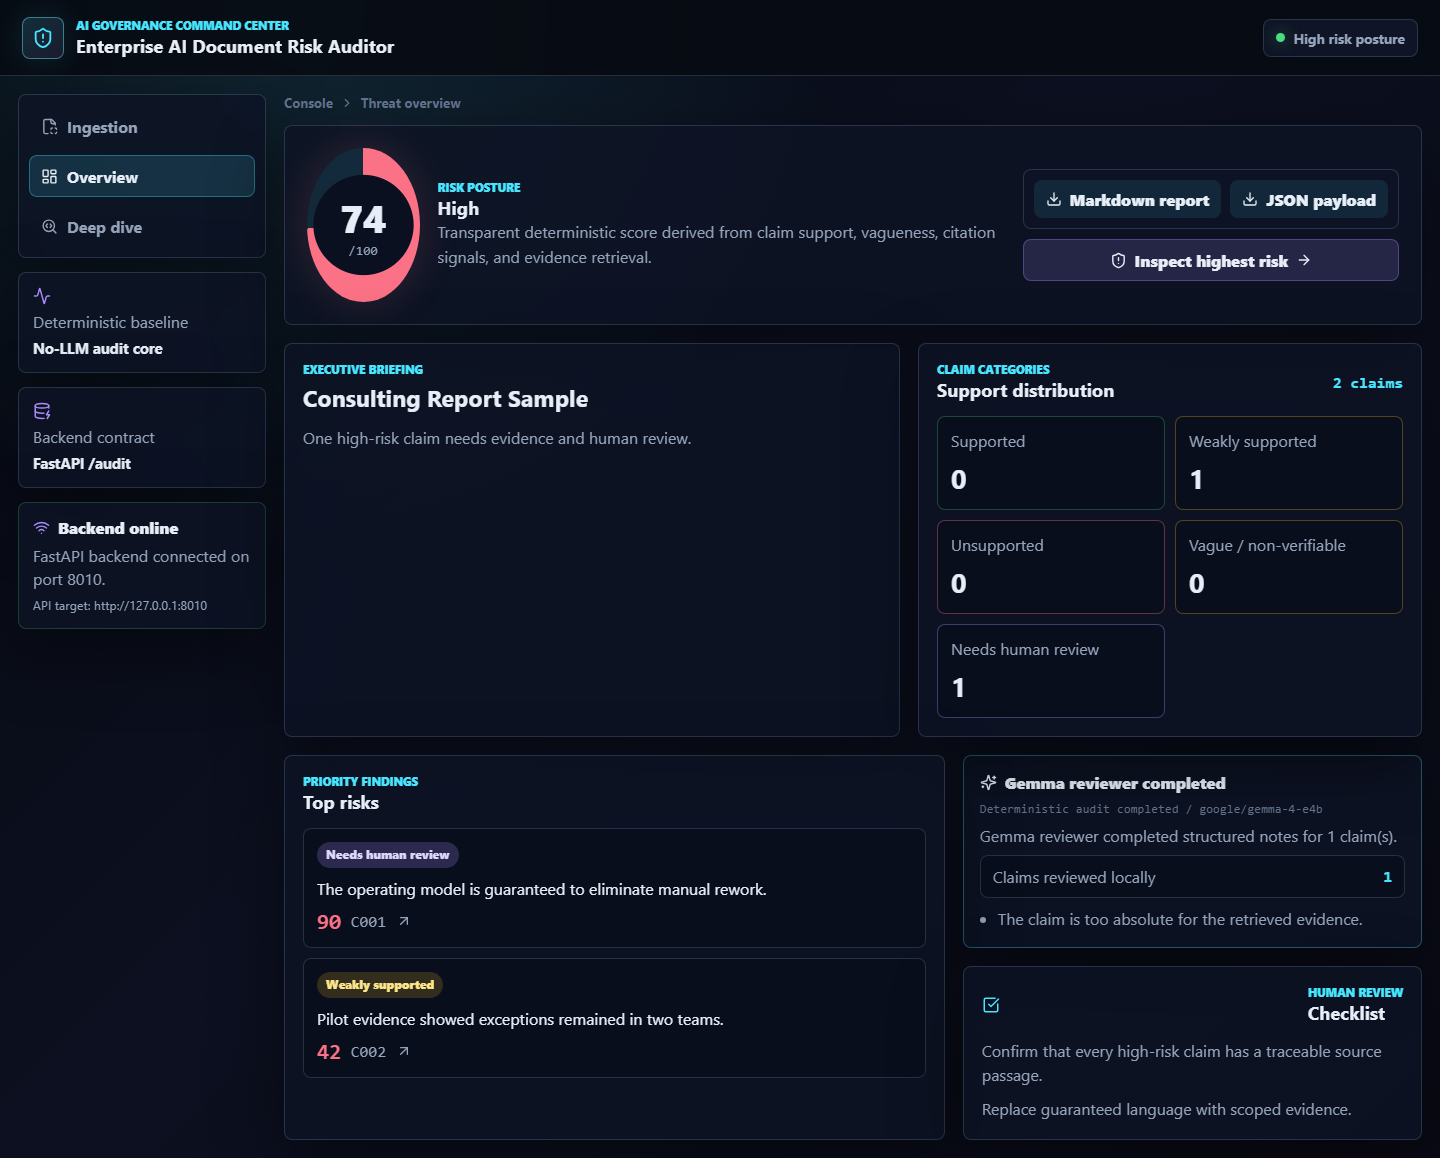
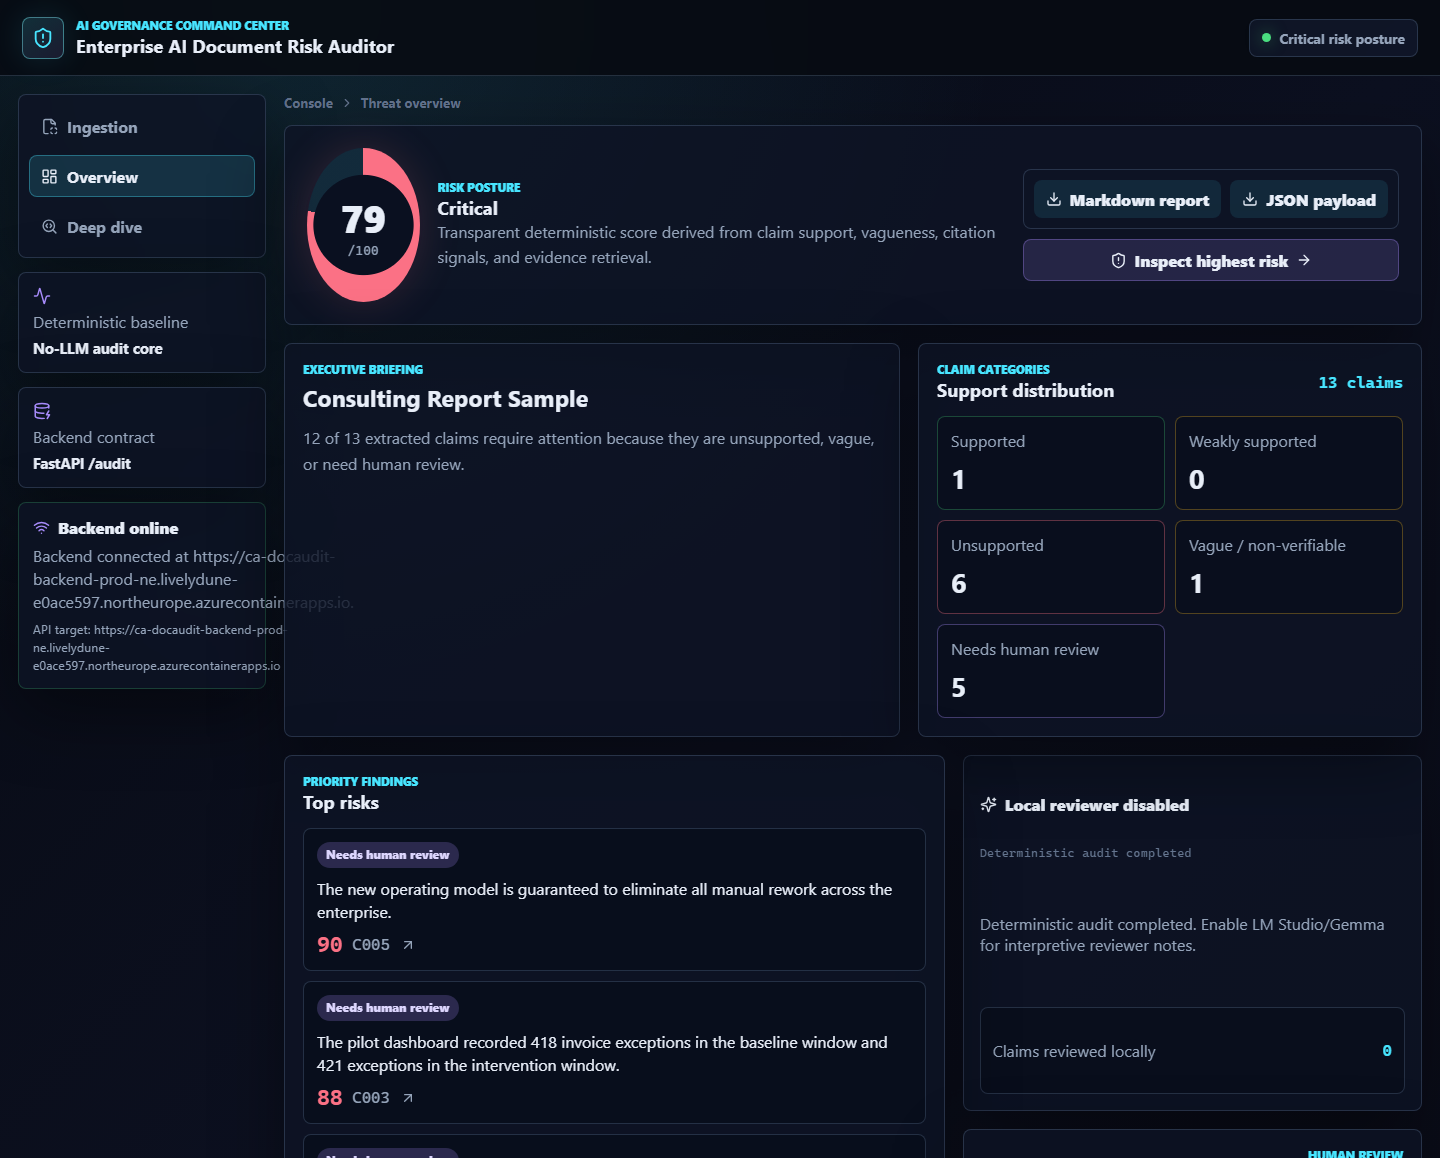
docs: capture the README screenshot from the live deployment
The previous image was a local run whose status panel showed "port 8010",
the local dev port, which is now both stale and inconsistent with the
deployed instance the README links to.

diff --git a/README.md b/README.md
@@ -87,7 +87,7 @@ reproducibility proof: **[docs/architecture-azure.md](docs/architecture-azure.md
 
 ## Screenshot
 
-The dark risk-intelligence dashboard is generated locally from synthetic samples.
+The dark risk-intelligence dashboard, captured from the live Azure deployment. All documents shipped with the project are synthetic.
 
 ![Dashboard screenshot](docs/screenshot-dashboard.png)
 
